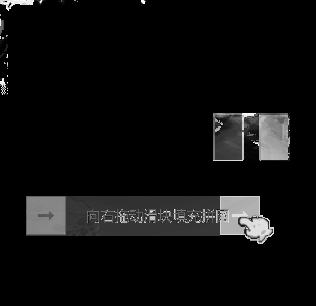
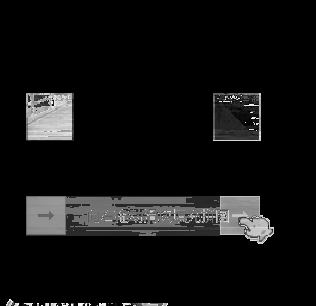
add addDayWork

diff --git a/main_yecai.py b/main_yecai.py
@@ -6,7 +6,7 @@ import threading as th
 from action_yecai import Action_yecai
 from image_yecai import Image_yecai
 import os
-ifDebug = True
+ifDebug = False
 
 def print_dug(words):
     if ifDebug == True:
@@ -19,6 +19,8 @@ class AntYecai(object):
         self.name = name
         self.mode = None
         self.programPath = programPath
+        self.allDayWork = [5, 0, 3]
+        self.allDayWork = [(5, 60 * 60 * 4), (0, 60 * 60 * 2.5), (3, -1)]
         self.lock_verify = th.Lock()
         hwnd = win32gui.FindWindow(None, name)
         if hwnd != 0:
@@ -174,14 +176,13 @@ class AntYecai(object):
                         if not self.image.verify()[0] == 1:
                             break
         elif situation == 4:
-
             data = self.image.rightArrow(detect=False)
             self.action.rightArrow(data)
         return False
 
     def verifing(self, timeTake = 10):
         print("Verify Thread Start with timeTake = ", timeTake)
-        while not self.stopSignal:
+        while True:
             self.lock_verify.acquire()
             self.verify()
             self.lock_verify.release()
@@ -416,6 +417,7 @@ class AntYecai(object):
 
     def start(self, mode= 0, ewa=False):
         self.mode = mode
+        self.thread = []
         if mode in [5,3,1,0] and ewa:
             self.lock_verify.acquire()
             self.enterWorkArea(mode)
@@ -437,6 +439,19 @@ class AntYecai(object):
         for thread in self.thread:
             thread.start()
 
+    def allDay(self):
+        for work, timeTake in self.allDayWork:
+            self.stopSignal = False
+            print(f"Start work {self.allDayWork[0]}")
+            self.start(work, ewa=True)
+            if timeTake > 0:
+                time.sleep(timeTake)
+                self.stopSignal = True
+                print(f"Start to stop work {self.allDayWork[0]}")
+                for i in self.thread:
+                    i.join()
+            print('finish')
+
 
 
 if __name__ == '__main__':
@@ -444,19 +459,20 @@ if __name__ == '__main__':
     time.sleep(2)
     program = AntYecai(test=False)
     program.mouseLocation()
+    # program.allDay()
 
-    program.start(3,ewa=True)
-    print(
-        """
-    Work Mode:
-    0: Fish
-    1: Hunting
-    2: Diging
-    3: Eating with hunting
-    4: Earning
-    5: Earn Snow with North
-    """
-    )
+    program.start(5,ewa=True)
+    # print(
+    #     """
+    # Work Mode:
+    # 0: Fish
+    # 1: Hunting
+    # 2: Diging
+    # 3: Eating with hunting
+    # 4: Earning
+    # 5: Earn Snow with North
+    # """
+    # )
     # program.start(2)
 
 

diff --git a/action_yecai.py b/action_yecai.py
@@ -117,7 +117,7 @@ class Action_yecai(object):
 
     def rightArrow(self,data):
         print(f'move to ({data[0]}, {data[1]})')
-        pyautogui.mouseUp(x=data[0], y=data[1], button='left', duration=0.4)
+        pyautogui.mouseUp(x=data[0], y=data[1], button='left', duration=0.6)
         # rightArrowLocation, targetLocation = data
         # pyautogui.moveTo(*rightArrowLocation)
         # time.sleep(0.2)
